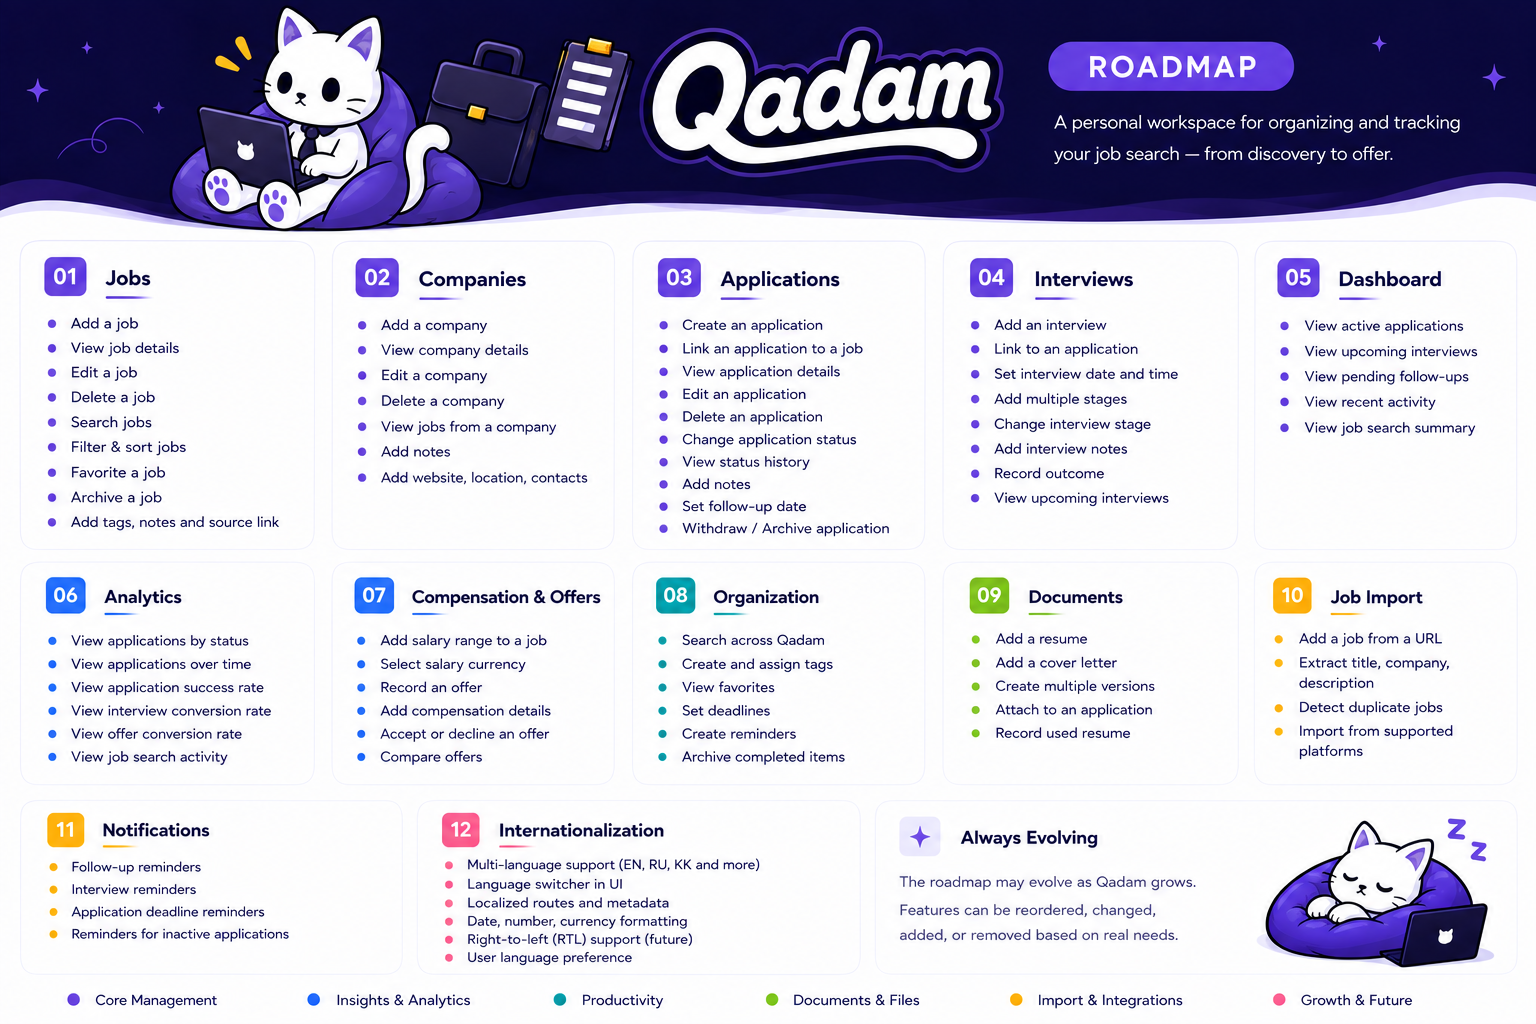
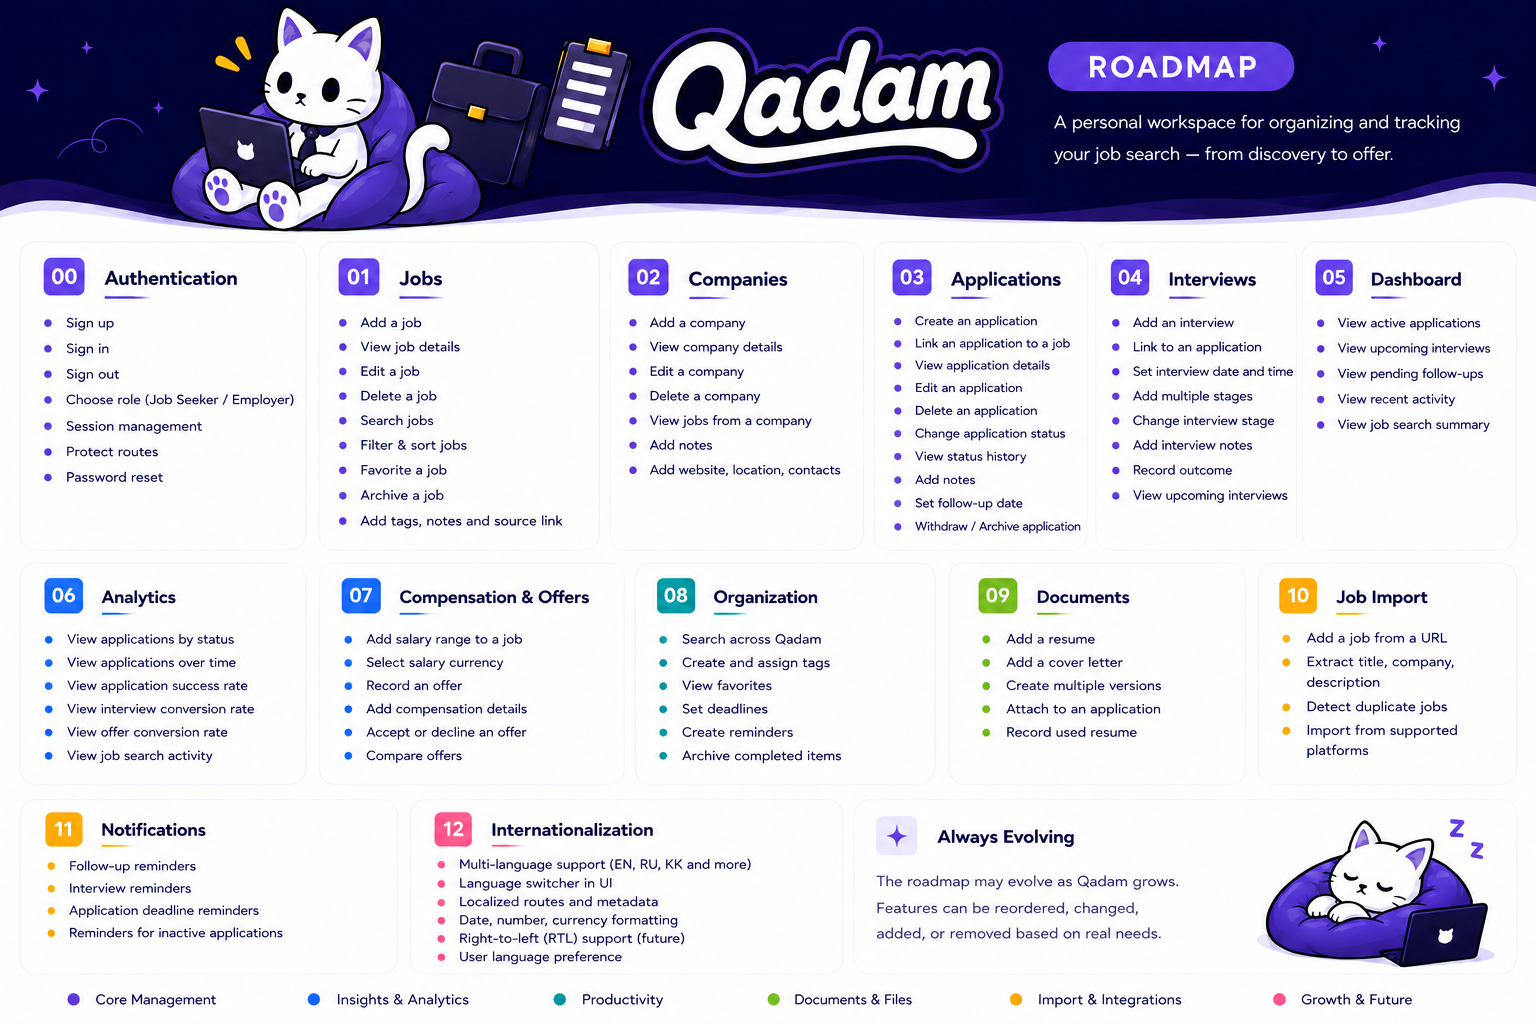
feat(database): add PostgreSQL and Drizzle setup

diff --git a/web/server/services/jobs/create-job.ts b/web/server/services/jobs/create-job.ts
@@ -1,5 +1,5 @@
-import type { JobEntity } from "~/types/job-entity";
-import type { CreateJobInput } from "~/types/job-input";
+import type { JobEntity } from "~/types/jobs/job-entity";
+import type { CreateJobInput } from "~/types/jobs/job-input";
 import { createJob } from "../../repositories/jobs/create-job";
 
 export function createJobService(input: CreateJobInput) {

diff --git a/web/server/services/jobs/update-job.ts b/web/server/services/jobs/update-job.ts
@@ -1,4 +1,4 @@
-import type { JobEntity, UpdateJobInput } from "~/types/entities/job-entity";
+import type { JobEntity, UpdateJobInput } from "~/types/jobs/job-entity";
 import { getJobById } from "../../repositories/jobs/get-job-by-id";
 import { updateJob } from "../../repositories/jobs/update-job";
 

diff --git a/web/server/repositories/jobs/update-job.ts b/web/server/repositories/jobs/update-job.ts
@@ -1,4 +1,4 @@
-import type { JobEntity } from "~/types/entities/job-entity";
+import type { JobEntity } from "~/types/jobs/job-entity";
 import { jobs } from "./storage";
 
 export function updateJob(job: JobEntity) {

diff --git a/web/server/repositories/jobs/create-job.ts b/web/server/repositories/jobs/create-job.ts
@@ -1,4 +1,4 @@
-import type { JobEntity } from "~/types/job-entity";
+import type { JobEntity } from "~/types/jobs/job-entity";
 import { jobs } from "./storage";
 
 export function createJob(job: JobEntity) {

diff --git a/web/server/types/jobs/job-record.ts b/web/server/types/jobs/job-record.ts
@@ -1,4 +1,4 @@
-import type { SalaryCurrency, WorkFormat } from "~/types/job-value";
+import type { SalaryCurrency, WorkFormat } from "~/types/jobs/job-value";
 
 export interface JobRecord {
   id: string;

diff --git a/web/server/repositories/jobs/storage.ts b/web/server/repositories/jobs/storage.ts
@@ -1,4 +1,4 @@
-import type { JobRecord } from "~/server/types/job";
+import type { JobRecord } from "~~/server/types/jobs/job-record";
 
 export const jobs: JobRecord[] = [
   {
